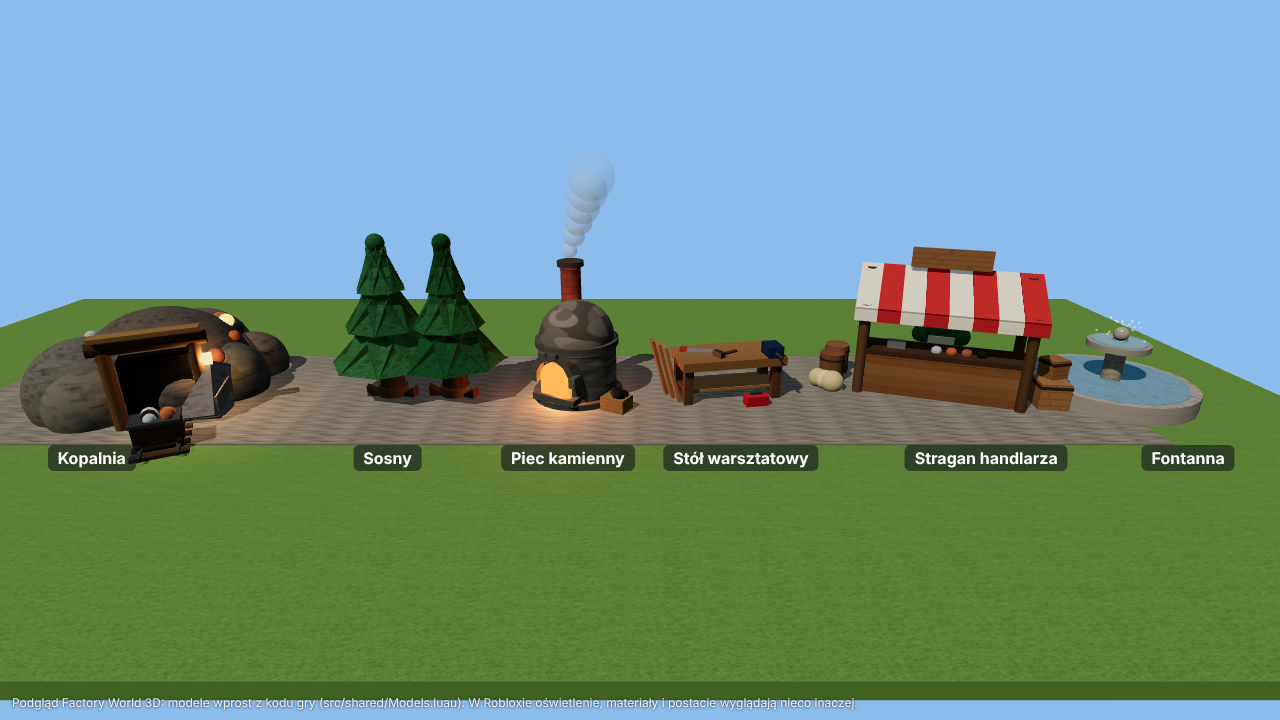
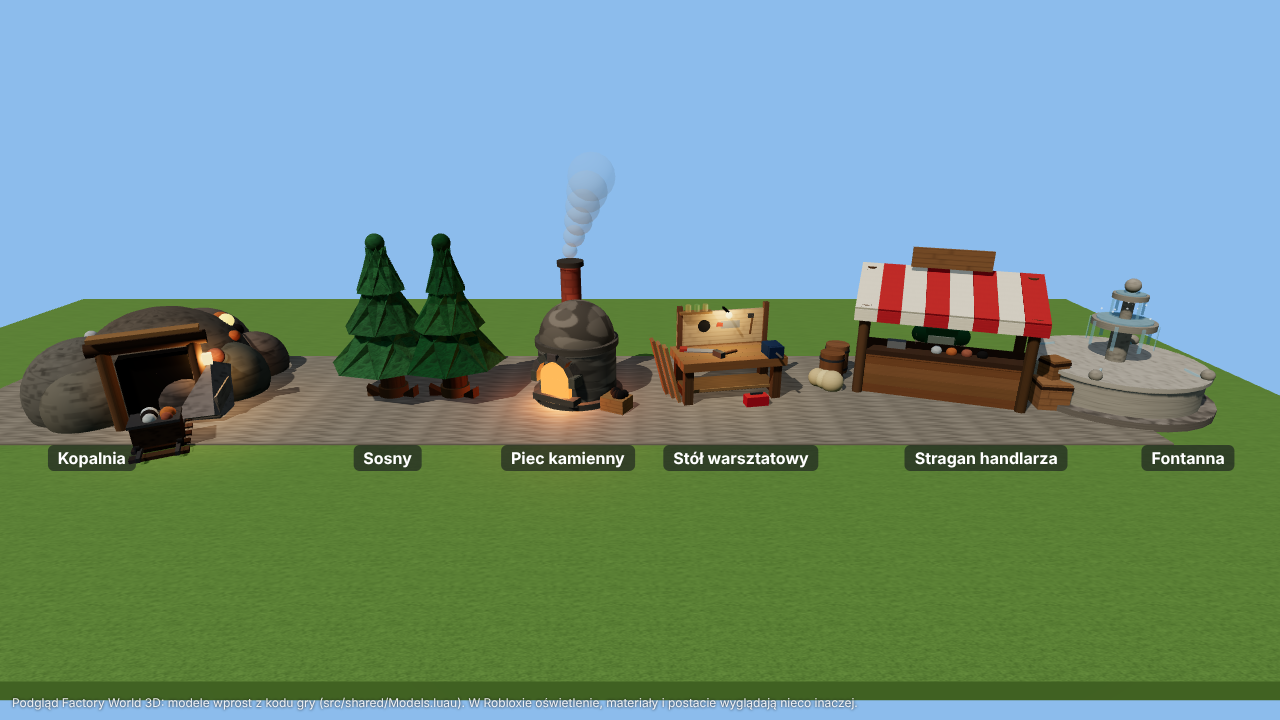
Add a tool board to the workbench and a second bowl, water and fish to the fountain
Claude-Session: https://claude.ai/code/session_015q7rLHNJ66CFDjTGWXE1aJ

Changed region(s): [[0.8125, 0.3667, 0.9688, 0.6111], [0.5312, 0.4278, 0.625, 0.5806]]

diff --git a/README.md b/README.md
@@ -29,7 +29,7 @@ Zrzuty pochodzą z podglądu w przeglądarce (`tools/preview/`), który rysuje d
 | 2. Logistyka | Działka 232 × 232 study z siatką budowania na całości (56 × 56 pól po 4 study; wszystko na działce stoi na jej polach), tryb budowania (stawianie, obracanie, rozbiórka, linie siatki widoczne tylko przy budowaniu), taśmociągi (2 pasy, zakręty, dołączanie z boku, przeciąganie skręca taśmę), podajniki, drewniane skrzynie (8 miejsc po 100 szt.), piec na siatce karmiony podajnikami, drzewa jak w 2D (ścięte znika, 30% na sadzonkę, sadzonka rośnie 10 min), nowe przepisy na stole (taśmociąg ×4, podajnik, skrzynia), gęsty las między działkami i wokół placu (tylko ozdoba, nie da się go ściąć ani w nim budować; ścieżki do bram wolne) | gotowe |
 | 3. Przetwórstwo | Maszyny na siatce (2 × 2 pola, odlewnia 3 × 3) z przepisami i czasami z gry 2D: tartak (deski, belki, pellet), warsztat kamieniarski (bloki), kruszarka (piasek, kruszywo rud: 3 z 2 rud, w piecu topi się szybciej), odlewnia na węgiel, drewno albo pellet (brąz, stal, cegły); maszyna robi wsad za wsadem także pod nieobecność gracza, podajniki ją karmią i opróżniają. Badania (jedno naraz, koszt od razu, czas jak w 2D): Gospodarka leśna, Kamieniarstwo, Kruszenie, Metalurgia odblokowują maszyny na stole i u handlarza. Od etapu 5 kruszarka potrzebuje prądu | gotowe |
 | 4. Handel | Rynek graczy na wszystkich serwerach (**M**): oferty sprzedaży i zamówienia jak w 2D (towar albo pieniądze czekają w ofercie, inni biorą część albo całość, zarobek przychodzi sam także pod nieobecność; do 20 ofert każdego rodzaju, do 10 000 szt. i 1 000 000 $ za sztukę, rzeczy niezbadane można tylko sprzedawać). Wydarzenia rynkowe u handlarza co 6 godzin (Boom na stal, Boom budowlany, Sroga zima, Gorączka miedzi, Moda na brąz, Gorączka złota, Zalew kamienia, Wyprzedaż maszyn), takie same na każdym serwerze, oraz codzienne wahania cen skupu do 10%; handlarz zawsze płaci najwyżej 90% swojej ceny sprzedaży | gotowe |
-| 5. Świat | **Prąd (gotowe):** generator parowy 2 × 2 (100 kW, węgiel 200 s, drewno 50 s, pellet 40 s przy pełnej mocy, do 50 sztuk; paliwo wkłada się w jego oknie albo podajnikiem), słupy energetyczne (zasilają pola 5 × 5 wokół siebie, łączą się kablem ze słupami do 7 pól dalej w jedną sieć), kruszarka pobiera 40 kW; przy za małej mocy wszystkie maszyny sieci pracują wolniej, bez prądu stoją i pamiętają postęp wsadu. Generator (stół: 10 kamieni, 8 sztabek żelaza, 4 sztabki miedzi) i słupy (×2: 2 drewna, 1 sztabka miedzi). Liczone na żądanie także pod nieobecność gracza. **Pociągi (gotowe):** każda działka ma stację kolejową (3 × 3 pola przy wschodnim płocie, nie da się jej rozebrać) z peronem i torem za płotem, który z obu stron znika w tunelu. Towar ładuje się na stację ręcznie albo podajnikami (do 10 000 szt. jednego towaru), podajniki też ją rozładowują. Wysyłka do innego gracza (szukanie po nazwie, na dowolnym serwerze): opłata 1 $ + 1 ¢ za sztukę na 100 km, czas 5 s na 100 km (najmniej 10 s), jak w 2D; towar czeka na stacji odbiorcy, także gdy go nie ma w grze. Trasy (do 5): pociąg co 1, 5, 15 albo 60 minut z wybranymi towarami albo wszystkim (do 2000 szt.), póki właściciel jest w grze. Pociąg widać, jak przyjeżdża z tunelu, staje przy peronie i odjeżdża. **Stół warsztatowy** jako przedmiot (u handlarza albo z 20 drewna i 5 gwoździ) do postawienia na działce. **Działki z biomami (gotowe, L):** poza pierwszą działką (Łąka) można kupić po jednej działce Las (60 drzew, kopalnia z dużą ilością węgla), Pustynia (bez drzew; piasek, miedź, cyna, czasem złoto), Góry (8 drzew; żelazo, srebro, węgiel) i Tundra (16 ośnieżonych świerków; cyna, srebro, złoto). Biom wybiera się przy zakupie, a działki kosztują 50 000 $, 500 000 $, 5 000 000 $ i każda następna 1 000 000 000 $. Na serwerze gracz ma jedno miejsce na działkę: w oknie *Moje działki* wybiera, którą tam pokazać, a gra buduje ją w tym samym miejscu z jej ziemią, kopalnią, siatką, piecami i maszynami. Działki, których nie widać, liczą się dalej i po powrocie wszystko jest nadrobione. **Pociągi między własnymi działkami (gotowe):** każda działka ma swoją stację z torem. W oknie stacji na liście „Komu” są najpierw twoje inne działki: pociąg jedzie 20 s i kosztuje tylko 1 $, a towar trafia na stację tamtej działki, także gdy jej nie widać. Trasy działają tak samo (np. ruda z Gór co 5 minut na Łąkę) i ruszają ze stacji działki, na której je dodano; działka, której nie widać, jest przed odjazdem przeliczona do teraz. Pociągi od innych graczy przyjeżdżają na stację Łąki. Odległości pociągów nadal liczą się w wymyślonym świecie 2400 × 1200 km. **Spółki (gotowe, K):** gracze z dowolnych serwerów zakładają spółkę (10 000 $, które trafiają do jej kasy; założyciel dostaje 1000 udziałów) albo dołączają do istniejącej (do 10 wspólników, nazwa unikalna i sprawdzona filtrem Robloxa). Udziały kupuje się po cenie udziału (kasa ÷ udziały, najmniej 1 $) i sprzedaje spółce za 95% tej ceny. Co tydzień spółka ma 3 zlecenia na towar (zawsze takie same dla danej spółki i tygodnia); towar z ekwipunku płaci 160% ceny handlarza do kasy, a oddający dostaje udziały warte tyle, ile dałby handlarz, więc reszta podnosi cenę udziałów wszystkich. Założyciel raz dziennie wypłaca dywidendę (20% kasy według udziałów), może usuwać wspólników (ich udziały są odkupione) i zamyka spółkę, odchodząc jako ostatni. Dywidendy przychodzą same, także po powrocie do gry. Odejście i usuwanie wspólnika trzeba potwierdzić drugim kliknięciem. **Wielkie projekty** (jak w 2D): założyciel zaczyna projekt, wspólnicy znoszą części z ekwipunku, a po zebraniu wszystkich spółka buduje go przez 24 albo 48 h; *Siedziba spółki* (500 bloków kamiennych, 400 belek, 200 cegieł, 150 sztabek żelaza) pozwala mieć 20 wspólników, *Magazyn spółki* (po siedzibie) daje 5 zleceń tygodniowo zamiast 3, a *Kolej spółki* (po siedzibie) obniża o 30% opłatę za odległość pociągów między wspólnikami. Wspólnicy są na liście „Komu” w oknie stacji od razu. **Lepsze modele (pierwsza tura):** nowa kruszarka (stalowa obudowa na nogach, koła zamachowe, walce w leju, taśma wysypująca kruszywo, drabinka), nowy warsztat kamieniarski (piła tarczowa na wysięgniku nad stołem z płytą, zbiornik wody, paleta bloków) i nowy generator (kocioł z kopułą, manometrem i zaworem, maszyna parowa z kołem zamachowym napędzającym prądnicę), a tartak i odlewnia mają więcej szczegółów. **Druga tura:** nowy parowóz (zielony kocioł z mosiężnymi obręczami i kopułami, duże koła napędowe, zderzaki i zgarniacz, kabina z oknami, tender z węglem) i wagony z deskami i kłonicami; stacja z kominem, skrzynkami kwiatów, ławką i tablicą; skrzynia z okuciami i uchwytami; podajnik z siłownikiem i lampką; wszystko nadal z części w `Models.luau`, bez wgrywania assetów | w toku |
+| 5. Świat | **Prąd (gotowe):** generator parowy 2 × 2 (100 kW, węgiel 200 s, drewno 50 s, pellet 40 s przy pełnej mocy, do 50 sztuk; paliwo wkłada się w jego oknie albo podajnikiem), słupy energetyczne (zasilają pola 5 × 5 wokół siebie, łączą się kablem ze słupami do 7 pól dalej w jedną sieć), kruszarka pobiera 40 kW; przy za małej mocy wszystkie maszyny sieci pracują wolniej, bez prądu stoją i pamiętają postęp wsadu. Generator (stół: 10 kamieni, 8 sztabek żelaza, 4 sztabki miedzi) i słupy (×2: 2 drewna, 1 sztabka miedzi). Liczone na żądanie także pod nieobecność gracza. **Pociągi (gotowe):** każda działka ma stację kolejową (3 × 3 pola przy wschodnim płocie, nie da się jej rozebrać) z peronem i torem za płotem, który z obu stron znika w tunelu. Towar ładuje się na stację ręcznie albo podajnikami (do 10 000 szt. jednego towaru), podajniki też ją rozładowują. Wysyłka do innego gracza (szukanie po nazwie, na dowolnym serwerze): opłata 1 $ + 1 ¢ za sztukę na 100 km, czas 5 s na 100 km (najmniej 10 s), jak w 2D; towar czeka na stacji odbiorcy, także gdy go nie ma w grze. Trasy (do 5): pociąg co 1, 5, 15 albo 60 minut z wybranymi towarami albo wszystkim (do 2000 szt.), póki właściciel jest w grze. Pociąg widać, jak przyjeżdża z tunelu, staje przy peronie i odjeżdża. **Stół warsztatowy** jako przedmiot (u handlarza albo z 20 drewna i 5 gwoździ) do postawienia na działce. **Działki z biomami (gotowe, L):** poza pierwszą działką (Łąka) można kupić po jednej działce Las (60 drzew, kopalnia z dużą ilością węgla), Pustynia (bez drzew; piasek, miedź, cyna, czasem złoto), Góry (8 drzew; żelazo, srebro, węgiel) i Tundra (16 ośnieżonych świerków; cyna, srebro, złoto). Biom wybiera się przy zakupie, a działki kosztują 50 000 $, 500 000 $, 5 000 000 $ i każda następna 1 000 000 000 $. Na serwerze gracz ma jedno miejsce na działkę: w oknie *Moje działki* wybiera, którą tam pokazać, a gra buduje ją w tym samym miejscu z jej ziemią, kopalnią, siatką, piecami i maszynami. Działki, których nie widać, liczą się dalej i po powrocie wszystko jest nadrobione. **Pociągi między własnymi działkami (gotowe):** każda działka ma swoją stację z torem. W oknie stacji na liście „Komu” są najpierw twoje inne działki: pociąg jedzie 20 s i kosztuje tylko 1 $, a towar trafia na stację tamtej działki, także gdy jej nie widać. Trasy działają tak samo (np. ruda z Gór co 5 minut na Łąkę) i ruszają ze stacji działki, na której je dodano; działka, której nie widać, jest przed odjazdem przeliczona do teraz. Pociągi od innych graczy przyjeżdżają na stację Łąki. Odległości pociągów nadal liczą się w wymyślonym świecie 2400 × 1200 km. **Spółki (gotowe, K):** gracze z dowolnych serwerów zakładają spółkę (10 000 $, które trafiają do jej kasy; założyciel dostaje 1000 udziałów) albo dołączają do istniejącej (do 10 wspólników, nazwa unikalna i sprawdzona filtrem Robloxa). Udziały kupuje się po cenie udziału (kasa ÷ udziały, najmniej 1 $) i sprzedaje spółce za 95% tej ceny. Co tydzień spółka ma 3 zlecenia na towar (zawsze takie same dla danej spółki i tygodnia); towar z ekwipunku płaci 160% ceny handlarza do kasy, a oddający dostaje udziały warte tyle, ile dałby handlarz, więc reszta podnosi cenę udziałów wszystkich. Założyciel raz dziennie wypłaca dywidendę (20% kasy według udziałów), może usuwać wspólników (ich udziały są odkupione) i zamyka spółkę, odchodząc jako ostatni. Dywidendy przychodzą same, także po powrocie do gry. Odejście i usuwanie wspólnika trzeba potwierdzić drugim kliknięciem. **Wielkie projekty** (jak w 2D): założyciel zaczyna projekt, wspólnicy znoszą części z ekwipunku, a po zebraniu wszystkich spółka buduje go przez 24 albo 48 h; *Siedziba spółki* (500 bloków kamiennych, 400 belek, 200 cegieł, 150 sztabek żelaza) pozwala mieć 20 wspólników, *Magazyn spółki* (po siedzibie) daje 5 zleceń tygodniowo zamiast 3, a *Kolej spółki* (po siedzibie) obniża o 30% opłatę za odległość pociągów między wspólnikami. Wspólnicy są na liście „Komu” w oknie stacji od razu. **Lepsze modele (pierwsza tura):** nowa kruszarka (stalowa obudowa na nogach, koła zamachowe, walce w leju, taśma wysypująca kruszywo, drabinka), nowy warsztat kamieniarski (piła tarczowa na wysięgniku nad stołem z płytą, zbiornik wody, paleta bloków) i nowy generator (kocioł z kopułą, manometrem i zaworem, maszyna parowa z kołem zamachowym napędzającym prądnicę), a tartak i odlewnia mają więcej szczegółów. **Druga tura:** nowy parowóz (zielony kocioł z mosiężnymi obręczami i kopułami, duże koła napędowe, zderzaki i zgarniacz, kabina z oknami, tender z węglem) i wagony z deskami i kłonicami; stacja z kominem, skrzynkami kwiatów, ławką i tablicą; skrzynia z okuciami i uchwytami; podajnik z siłownikiem i lampką. **Trzecia tura:** stół warsztatowy z tablicą narzędzi, półką ze słoikami i lampą; fontanna z drugą czaszą, strugami wody, liliami i kamiennymi rybami; wszystko nadal z części w `Models.luau`, bez wgrywania assetów | w toku |
 
 ## Uruchomienie w Roblox Studio
 
